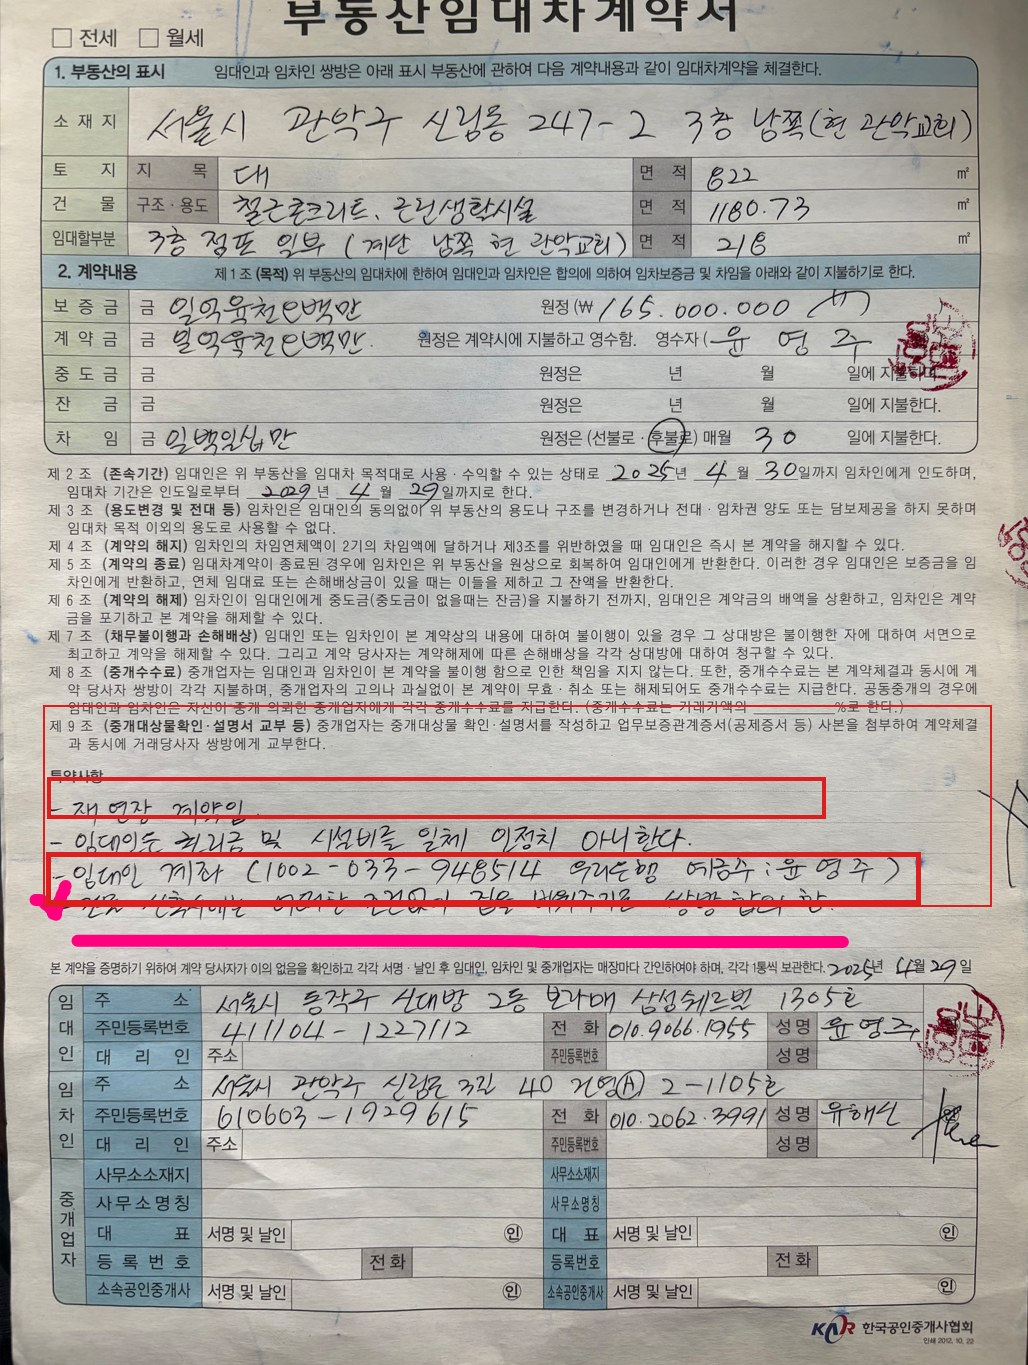
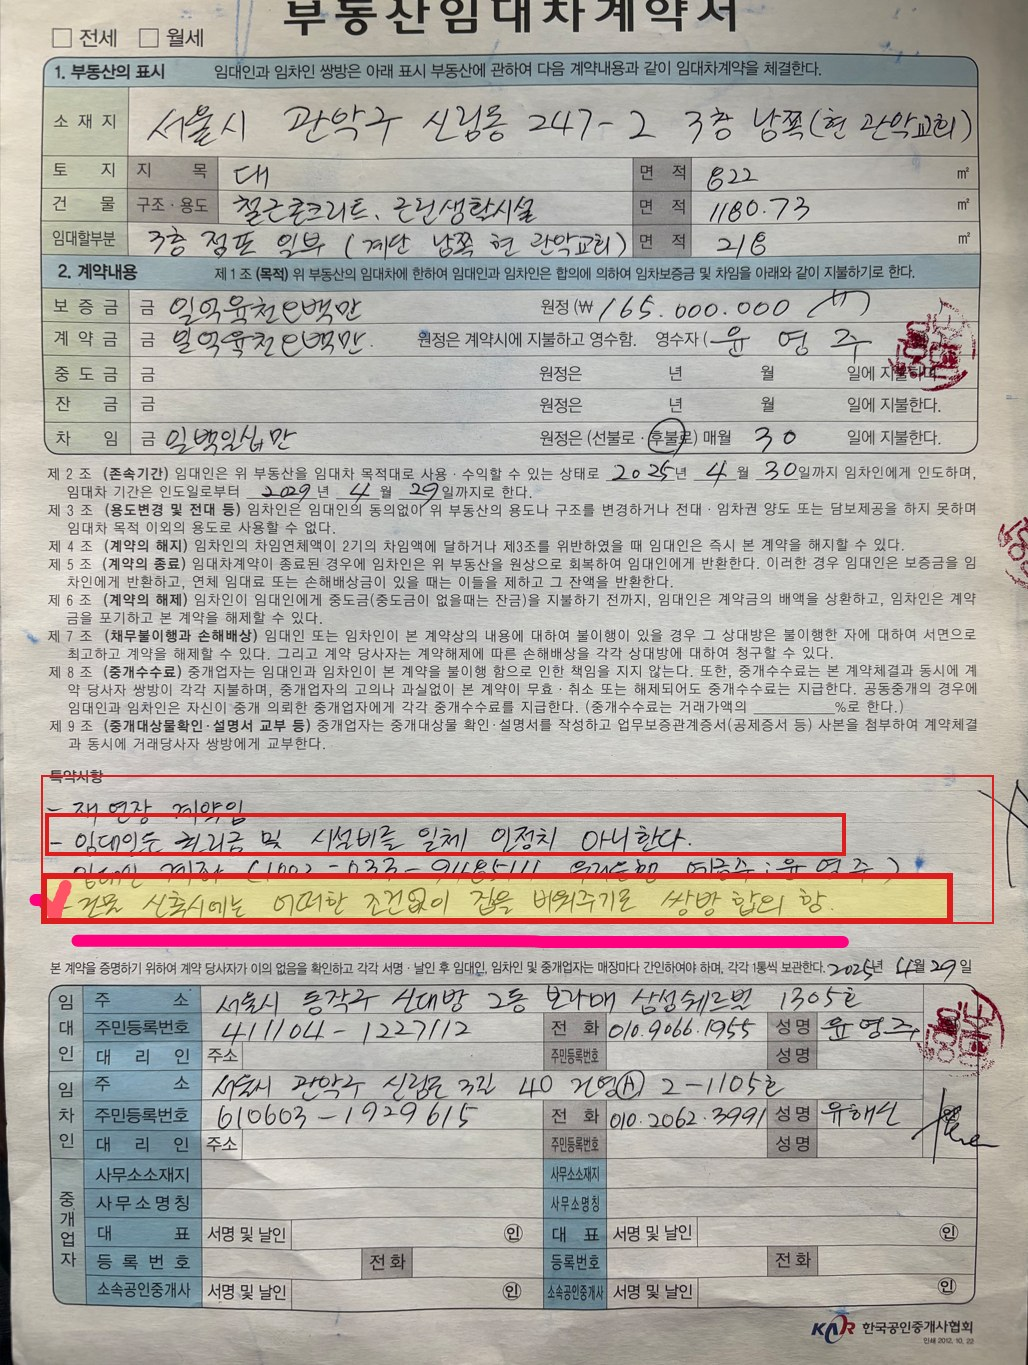
계약서 빨간 표시 위치 교정 + 걱정 답변 논거 강화 + 태권도장 30만 반영
- 계약서 핵심 특약 '건물 신축 시 어떤 조건도 없이 비워주기로 쌍방 합의함'을
  노란 형광+굵은 빨강으로 정확히 강조(기존 박스 위치 오류 수정), 캡션 강화
- Step 6 걱정 8개를 단일 문단→구체적 대안·근거 항목 리스트로 강화 +
  '정리하면'(사실확인/대안/계획반영/무리 시 중단) 종합 박스
- 현재 고정비에 태권도장 임대 30만원 반영 → 합계 약 320~510만(스토리·브리핑)
- 브리핑 신축 특약 문구도 '쌍방 합의' 원문 기준으로 정확화

diff --git a/src/app/story/page.tsx b/src/app/story/page.tsx
@@ -58,46 +58,88 @@ const GAPS = [
   "새 예배 장소를 찾고 허가받고 공사하는 데만 보통 1~2년이 걸립니다. ‘닥쳐서 찾자’면 이미 늦습니다.",
 ];
 
-const WORRIES = [
+const WORRIES: { q: string; feel: string; points: string[] }[] = [
   {
     q: "“멀어서 못 나갈 것 같아요”",
     feel: "가장 마음 아픈 걱정입니다. 신앙생활의 터전이 흔들리니까요. 특히 어르신, 걸어서 오시는 분, 대중교통을 이용하시는 분께는 절실한 문제입니다.",
-    answer: "주일 차량(셔틀)·카풀·어르신 택시 지원을 적극 준비합니다. 거리상으로도 자가용 약 20분, 성도의 약 70%는 이미 관악구 밖에 사셔서 생활권이 크게 바뀌지는 않습니다. 무엇보다 ‘한 사람도 소외되지 않는 이전’이 원칙이고, 교통 때문에 공동체가 흔들린다면 그분들을 위해서라도 이전 자체를 다시 생각합니다.",
+    points: [
+      "주일 셔틀 차량 운행 — 주요 거점에서 함께 태워 오는 방법을 준비합니다.",
+      "카풀 매칭 — 가까이 사는 성도끼리 차를 함께 타도록 연결합니다.",
+      "어르신·교통약자 택시비 지원을 검토합니다.",
+      "거리상으로도 자가용 약 20분이고, 성도의 약 70%는 이미 관악구 밖에 사셔서 과반은 생활권 변화가 크지 않습니다.",
+      "원칙은 ‘한 사람도 소외되지 않는 이전’ — 교통 때문에 공동체가 흔들린다면 그분들을 위해서라도 이전 자체를 다시 생각합니다.",
+    ],
   },
   {
     q: "“빚을 지고 건물을 사는 게 신앙적으로 맞나요?”",
     feel: "큰 빚에 대한 두려움, 헌금이 무리하게 쓰일까 하는 거룩한 부담은 당연하고 귀한 마음입니다.",
-    answer: "‘빚=죄’가 아니라 함께 기도하며 분별할 청지기의 문제입니다. 게다가 지금도 월세·주차비로 매년 수천만 원을 쓰는데 그 돈은 사라집니다. 매입 상환금은 갚을수록 교회 자산이 됩니다. 다만 감당 못 할 수준이면 진행하지 않습니다 — 무리한 결정은 하지 않겠습니다.",
+    points: [
+      "‘빚=죄’가 아닙니다 — 성경도 빚 자체가 아니라 감당 못 할 빚을 경계합니다. 함께 기도하며 분별할 청지기의 문제입니다.",
+      "지금도 월세·주차비로 매년 수천만 원(10년이면 약 5억)이 ‘사라지는 돈’으로 나갑니다. 매입 상환금은 갚을수록 교회 자산이 됩니다.",
+      "금리 5.4~5.7% 견적을 받았고, 거치(이자만)·원금 분할 중 형편에 맞는 방식을 택합니다.",
+      "Plan A·B·C로 단계별 대비합니다. 연보·차입이 부족하면 규모를 줄이거나 시점을 늦춥니다.",
+      "감당 못 할 수준이면 진행하지 않습니다 — 무리한 결정은 하지 않겠습니다.",
+    ],
   },
   {
     q: "“연보를 꼭 해야 하나요? 부담돼요”",
     feel: "형편이 어려운 분께 연보 목표는 무거운 짐이 될 수 있습니다. 그 부담을 결코 가볍게 여기지 않습니다.",
-    answer: "연보는 완전히 자발적·익명이며 형편껏입니다. 정해진 액수도, 못 했을 때의 정죄도 없습니다. 오히려 연보가 충분히 모이지 않으면 ‘무리하게 진행하지 말라’는 신호로 받아들입니다.",
+    points: [
+      "연보는 완전히 자발적·익명입니다. 정해진 액수가 없고 형편껏 드립니다.",
+      "못 하셔도 아무런 정죄나 부담이 없습니다 — 누가 얼마를 했는지 알 수 없습니다.",
+      "서약 기간을 1~2년으로 나누는 등 형편을 배려하는 방법을 함께 마련합니다.",
+      "오히려 연보가 충분히 모이지 않으면 ‘무리하게 진행하지 말라’는 신호로 받아들입니다.",
+    ],
   },
   {
     q: "“금천구로 가면 ‘관악교회’ 이름은요?”",
     feel: "교회의 이름과 정체성에 대한 소중한 물음입니다. 가볍게 넘길 일이 아닙니다.",
-    answer: "이름은 지역명이 아니라 우리의 시작과 뿌리를 담은 표현이라 그대로 둘 수 있습니다. 정체성은 건물 주소가 아니라 함께 예배하는 우리 공동체에 있습니다. 이름·지역 사역에 대한 고민도 이전 결정과 별도로 성도님들과 함께 의논하겠습니다.",
+    points: [
+      "이름은 지역명이 아니라 우리의 시작과 뿌리를 담은 표현이라 그대로 둘 수 있습니다.",
+      "원래 지역에서 옮겼지만 이름을 유지하는 교회가 많습니다(예: 영등포에서 시작해 다른 곳으로 이전한 교회 등).",
+      "금천구는 관악 바로 옆이라 기존 사역을 이어가면서, 새 지역에서의 선교 기회도 생깁니다.",
+      "정체성은 건물 주소가 아니라 함께 예배하는 공동체에 있습니다. 이름·지역 사역은 이전 결정과 별도로 성도님들과 함께 의논합니다.",
+    ],
   },
   {
     q: "“너무 급하게 밀어붙이는 것 같아요”",
     feel: "충분히 듣지 못했다는 느낌, 그 과정에서 받은 상처와 마음의 시험을 무겁게 받아들입니다.",
-    answer: "이전 논의는 이미 2년 전부터 있어 왔고, 공청회는 ‘결정’이 아니라 ‘의견을 듣는’ 자리였습니다. 의사결정 시한도 서리집사 선출 때까지 미뤄, 더 충분히 의논합니다. 더 폭넓게 듣기 위해 확대당회로 모이며, 위원회를 계속할지까지 열어 놓고 논의합니다.",
+    points: [
+      "이전 논의는 이미 2년 전부터 있어 왔습니다 — 갑작스러운 일이 아닙니다.",
+      "공청회는 ‘결정’이 아니라 ‘의견을 듣는’ 자리였습니다. 오늘 정해진 것은 없습니다.",
+      "의사결정 시한을 서리집사 선출 때까지 미뤄, 더 충분히 소통할 시간을 확보했습니다.",
+      "더 폭넓게 듣기 위해 확대당회로 모이며, 위원회를 계속할지까지 열어 놓고 논의합니다.",
+      "상처드린 부분은 사과드리며, 속도와 방식은 얼마든지 다시 조정할 수 있습니다.",
+    ],
   },
   {
     q: "“지금도 괜찮은데 꼭 옮겨야 하나요?”",
     feel: "익숙한 자리를 떠나는 일은 누구에게나 부담스럽습니다. 당연한 마음입니다.",
-    answer: "지금이 ‘괜찮아 보이는’ 것이 함정일 수 있습니다. 건물이 매물로 나왔고 ‘신축 시 즉시 퇴거’ 조항이 있어, 우리가 원하는 때가 아니라 떠밀리는 때에 나가야 할 수 있습니다. 새 예배 공간을 찾고 허가받고 공사하는 데만 1~2년이 걸립니다. 그래서 시간과 선택권이 있는 ‘지금’ 차분히 준비하려는 것입니다.",
+    points: [
+      "‘괜찮아 보이는’ 지금이 함정일 수 있습니다 — 건물이 100억 매물로 나왔고 90억 매수 희망자도 나타났습니다.",
+      "보장된 최초 10년은 이미 지났고 재연장 3년만 남았는데, ‘신축 시 즉시 퇴거’ 특약 탓에 그 3년도 안전하지 않습니다.",
+      "매각이 안 돼도 3년 뒤 재계약된다는 보장이 없습니다.",
+      "새 예배 공간을 찾고 허가받고 공사하는 데만 1~2년이 걸립니다 — 닥쳐서 찾으면 이미 늦습니다.",
+      "그래서 시간과 선택권이 있는 ‘지금’ 차분히, 주도적으로 좋은 조건을 잡으려는 것입니다.",
+    ],
   },
   {
     q: "“이미 떠나겠다는 분들도 계시다던데…”",
     feel: "한 분 한 분의 마음이 가장 아픕니다. 이전보다 공동체의 일치가 먼저입니다.",
-    answer: "위원회는 이를 ‘추진의 걸림돌’이 아니라 ‘멈춰 돌아보라는 신호’로 받습니다. 떠나려는 분께 설득보다 먼저 안부와 마음을 여쭙고, 상처드린 부분은 사과합니다. 멈춤이나 연기도 실패가 아니라 분별의 결과일 수 있습니다.",
+    points: [
+      "위원회는 이를 ‘추진의 걸림돌’이 아니라 ‘멈춰 돌아보라는 신호’로 받습니다.",
+      "떠나려는 분께 설득보다 먼저 안부와 마음을 여쭙고, 상처드린 부분은 사과합니다.",
+      "멈춤이나 연기도 실패가 아니라 분별의 결과일 수 있습니다 — 사람이 프로젝트보다 귀합니다.",
+    ],
   },
   {
     q: "“공동의회에서 부결되면 어떻게 되나요?”",
     feel: "결정 절차에 대한 정당한 질문입니다.",
-    answer: "부결되면 현 예배당에서 계속 예배하며 다른 길을 찾습니다. 다만 현 건물의 매각·퇴거 위험은 그대로 남아 있으므로, 그 경우에도 대비는 이어갑니다. 어떤 결정이든 공동의회에서 함께 내립니다 — 오늘 강요받는 분은 없습니다.",
+    points: [
+      "부결되면 현 예배당에서 계속 예배하며 다른 길을 찾습니다.",
+      "다만 현 건물의 매각·퇴거 위험은 그대로 남아 있으므로, 그 경우에도 대비는 이어갑니다.",
+      "어떤 결정이든 공동의회에서 함께 내립니다 — 오늘 강요받는 분은 없습니다.",
+    ],
   },
 ];
 
@@ -205,8 +247,8 @@ export default function StoryPage() {
             <span className="text-muted-foreground">
               <span className="font-medium text-red-600">빨간 박스 ①</span> 권리금·시설비를 임대인이 일체 인정하지 않음 → 나갈 때 원상복구·시설비는 교회 부담
             </span>
-            <span className="text-muted-foreground">
-              <span className="font-medium text-red-600">빨간 박스 ②</span> ‘건물 신축 시 (퇴거)’ 조건임을 계약 때 강조·설명함 → 신축·매각 시 바로 나가야 할 수 있음
+            <span className="text-foreground">
+              <span className="font-medium text-red-600">빨간 박스 ②</span> <strong>(가장 중요)</strong> “건물 신축 시 어떤 조건도 없이 집을 비워주기로 <strong>쌍방 합의함</strong>” → 신축·매각이 결정되면 보상·유예 없이 즉시 나가야 함
             </span>
             <a href="/contract-annotated.jpg" target="_blank" rel="noopener noreferrer" className="mt-1 w-fit text-sm font-medium text-primary underline">
               계약서 전체 이미지 보기 →
@@ -268,8 +310,9 @@ export default function StoryPage() {
       <Step n={5} title="돈 이야기 — 솔직하게 비교합니다" icon={<Coin size={22} />}>
         {/* 현재 우리가 내는 고정비 */}
         <p className="mb-3 font-semibold">먼저, 지금 우리가 매달 내고 있는 돈입니다.</p>
-        <div className="mb-3 grid grid-cols-3 gap-2">
+        <div className="mb-3 grid grid-cols-2 gap-2 sm:grid-cols-4">
           <Stat big="약 200만" small="월 임대료" />
+          <Stat big="30만" small="태권도장 임대" />
           <Stat big="50~80만" small="월 주차비" />
           <Stat big="40~200만" small="관리·전기·수도" />
         </div>
@@ -281,7 +324,7 @@ export default function StoryPage() {
           </p>
         </div>
         <p className="mb-5 rounded-xl bg-secondary/50 p-3 text-center text-[15px] sm:text-base">
-          지금도 합쳐서 <strong>매달 약 290~480만 원</strong>을 쓰고 있는데, 이 돈은 <strong>모두 사라지는 돈</strong>입니다.
+          지금도 합쳐서 <strong>매달 약 320~510만 원</strong>을 쓰고 있는데, 이 돈은 <strong>모두 사라지는 돈</strong>입니다.
         </p>
 
         <p className="mb-5 text-muted-foreground">
@@ -363,7 +406,8 @@ export default function StoryPage() {
       {/* Step 6 — 염려 공감 */}
       <Step n={6} title="이런 걱정, 충분히 이해합니다" icon={<HandHeart size={22} />}>
         <p className="mb-5 text-muted-foreground">
-          반대나 염려도 모두 교회를 사랑하는 마음에서 나옵니다. 먼저 그 마음을 듣고 함께 답을 찾겠습니다.
+          반대나 염려도 모두 교회를 사랑하는 마음에서 나옵니다. 먼저 그 마음을 듣고,
+          <strong className="text-foreground"> 구체적인 대안과 근거로 함께 답</strong>을 찾겠습니다.
         </p>
         <div className="flex flex-col gap-4">
           {WORRIES.map((w, i) => (
@@ -372,12 +416,30 @@ export default function StoryPage() {
               <p className="mt-2 rounded-xl bg-secondary/50 p-3 text-[15px] sm:text-base">
                 <span className="font-semibold text-primary">그 마음 — </span>{w.feel}
               </p>
-              <p className="mt-2 flex gap-2 text-[15px] sm:text-base">
-                <CheckCircle size={20} className="mt-0.5 shrink-0 text-emerald-600" />
-                <span><span className="font-semibold">이렇게 준비합니다 — </span>{w.answer}</span>
-              </p>
+              <div className="mt-3">
+                <p className="mb-1.5 text-[15px] font-semibold sm:text-base">이렇게 답하고, 이렇게 준비합니다</p>
+                <ul className="flex flex-col gap-2">
+                  {w.points.map((pt, j) => (
+                    <li key={j} className="flex items-start gap-2 text-[15px] leading-relaxed sm:text-base">
+                      <CheckCircle size={20} className="mt-0.5 shrink-0 text-emerald-600" weight="fill" />
+                      <span>{pt}</span>
+                    </li>
+                  ))}
+                </ul>
+              </div>
             </div>
           ))}
+        </div>
+
+        <div className="mt-5 rounded-2xl border-l-4 border-primary bg-secondary/40 p-5 leading-relaxed">
+          <p className="font-semibold">정리하면 —</p>
+          <p className="mt-1 text-[15px] sm:text-base">
+            걱정의 대부분은 <strong>① 사실 확인(계약·매각·비용)</strong>으로 풀리거나,
+            <strong> ② 구체적 대안(교통 지원·자발적 연보·단계별 자금계획)</strong>으로 줄일 수 있는 것들입니다.
+            남는 부담은 <strong>위원회가 계획에 반영</strong>합니다. 무엇보다,
+            <strong className="text-primary"> 감당이 어렵거나 한 사람이라도 크게 소외된다면 진행하지 않겠습니다.</strong>
+            반대와 염려는 막을 것이 아니라, 더 나은 결정을 만드는 소중한 목소리입니다.
+          </p>
         </div>
       </Step>
 

diff --git a/src/app/briefing/page.tsx b/src/app/briefing/page.tsx
@@ -85,11 +85,11 @@ const COST_COMPARE: {
   delta: string;
   deltaTone: "up" | "down" | "neutral";
 }[] = [
-  { item: "임대료 / 대출이자", current: "200만원", after: "약 320~335만원 (7억·5.4~5.7%)", delta: "+120~135만원", deltaTone: "up" },
+  { item: "임대료 (+태권도장)", current: "230만원 (임대 200+태권도장 30)", after: "대출이자 약 320~335만원 (7억·5.4~5.7%)", delta: "+90~105만원", deltaTone: "up" },
   { item: "타 교회 상환", current: "—", after: "30~50만원", delta: "+30~50만원", deltaTone: "up" },
   { item: "주차비", current: "50~80만원", after: "약 21만원 (정기 4대 12 + 할인권 9)", delta: "-약 30~60만원", deltaTone: "down" },
   { item: "관리비·공용·전기·수도", current: "40~200만원", after: "약 167만원 (실측 평균)", delta: "실측 반영", deltaTone: "neutral" },
-  { item: "합계", current: "290~480만원", after: "약 540~575만원", delta: "+약 160~190만원", deltaTone: "up" },
+  { item: "합계", current: "320~510만원", after: "약 540~575만원", delta: "+약 140~180만원", deltaTone: "up" },
 ];
 
 const SAVING_POINTS: { item: string; ratio: string; note: string }[] = [
@@ -239,8 +239,8 @@ const CONTRACT_FACTS: { label: string; value: string; confirmed: boolean }[] = [
 ];
 const CONTRACT_CLAUSES: { title: string; body: string }[] = [
   {
-    title: "★ 건물 신축 시 (즉시 퇴거) 조건 — 계약 시 강조·설명함",
-    body: "특약에 ‘건물 신축 시 (퇴거)’ 취지가 명시되어 있고 계약 시 이를 강조·설명했다는 기재가 있음. 앞서 부동산이 확인한 ‘신축 매수자 대기·즉시 퇴거’ 정황과 직접 연결되는 조항.",
+    title: "★ 건물 신축 시 ‘어떤 조건도 없이 비워주기로 쌍방 합의’",
+    body: "특약에 ‘건물 신축 시에도 어떠한 조건 없이 집을 비워주기로 쌍방 합의함’이 명시되어 있음. 즉 신축·매각이 결정되면 보상·유예 없이 즉시 퇴거. 부동산이 확인한 ‘신축 매수자 대기’ 정황과 직접 연결되는, 가장 중요한 조항.",
   },
   {
     title: "원상복구·시설비 일체 임대인 불인정",
